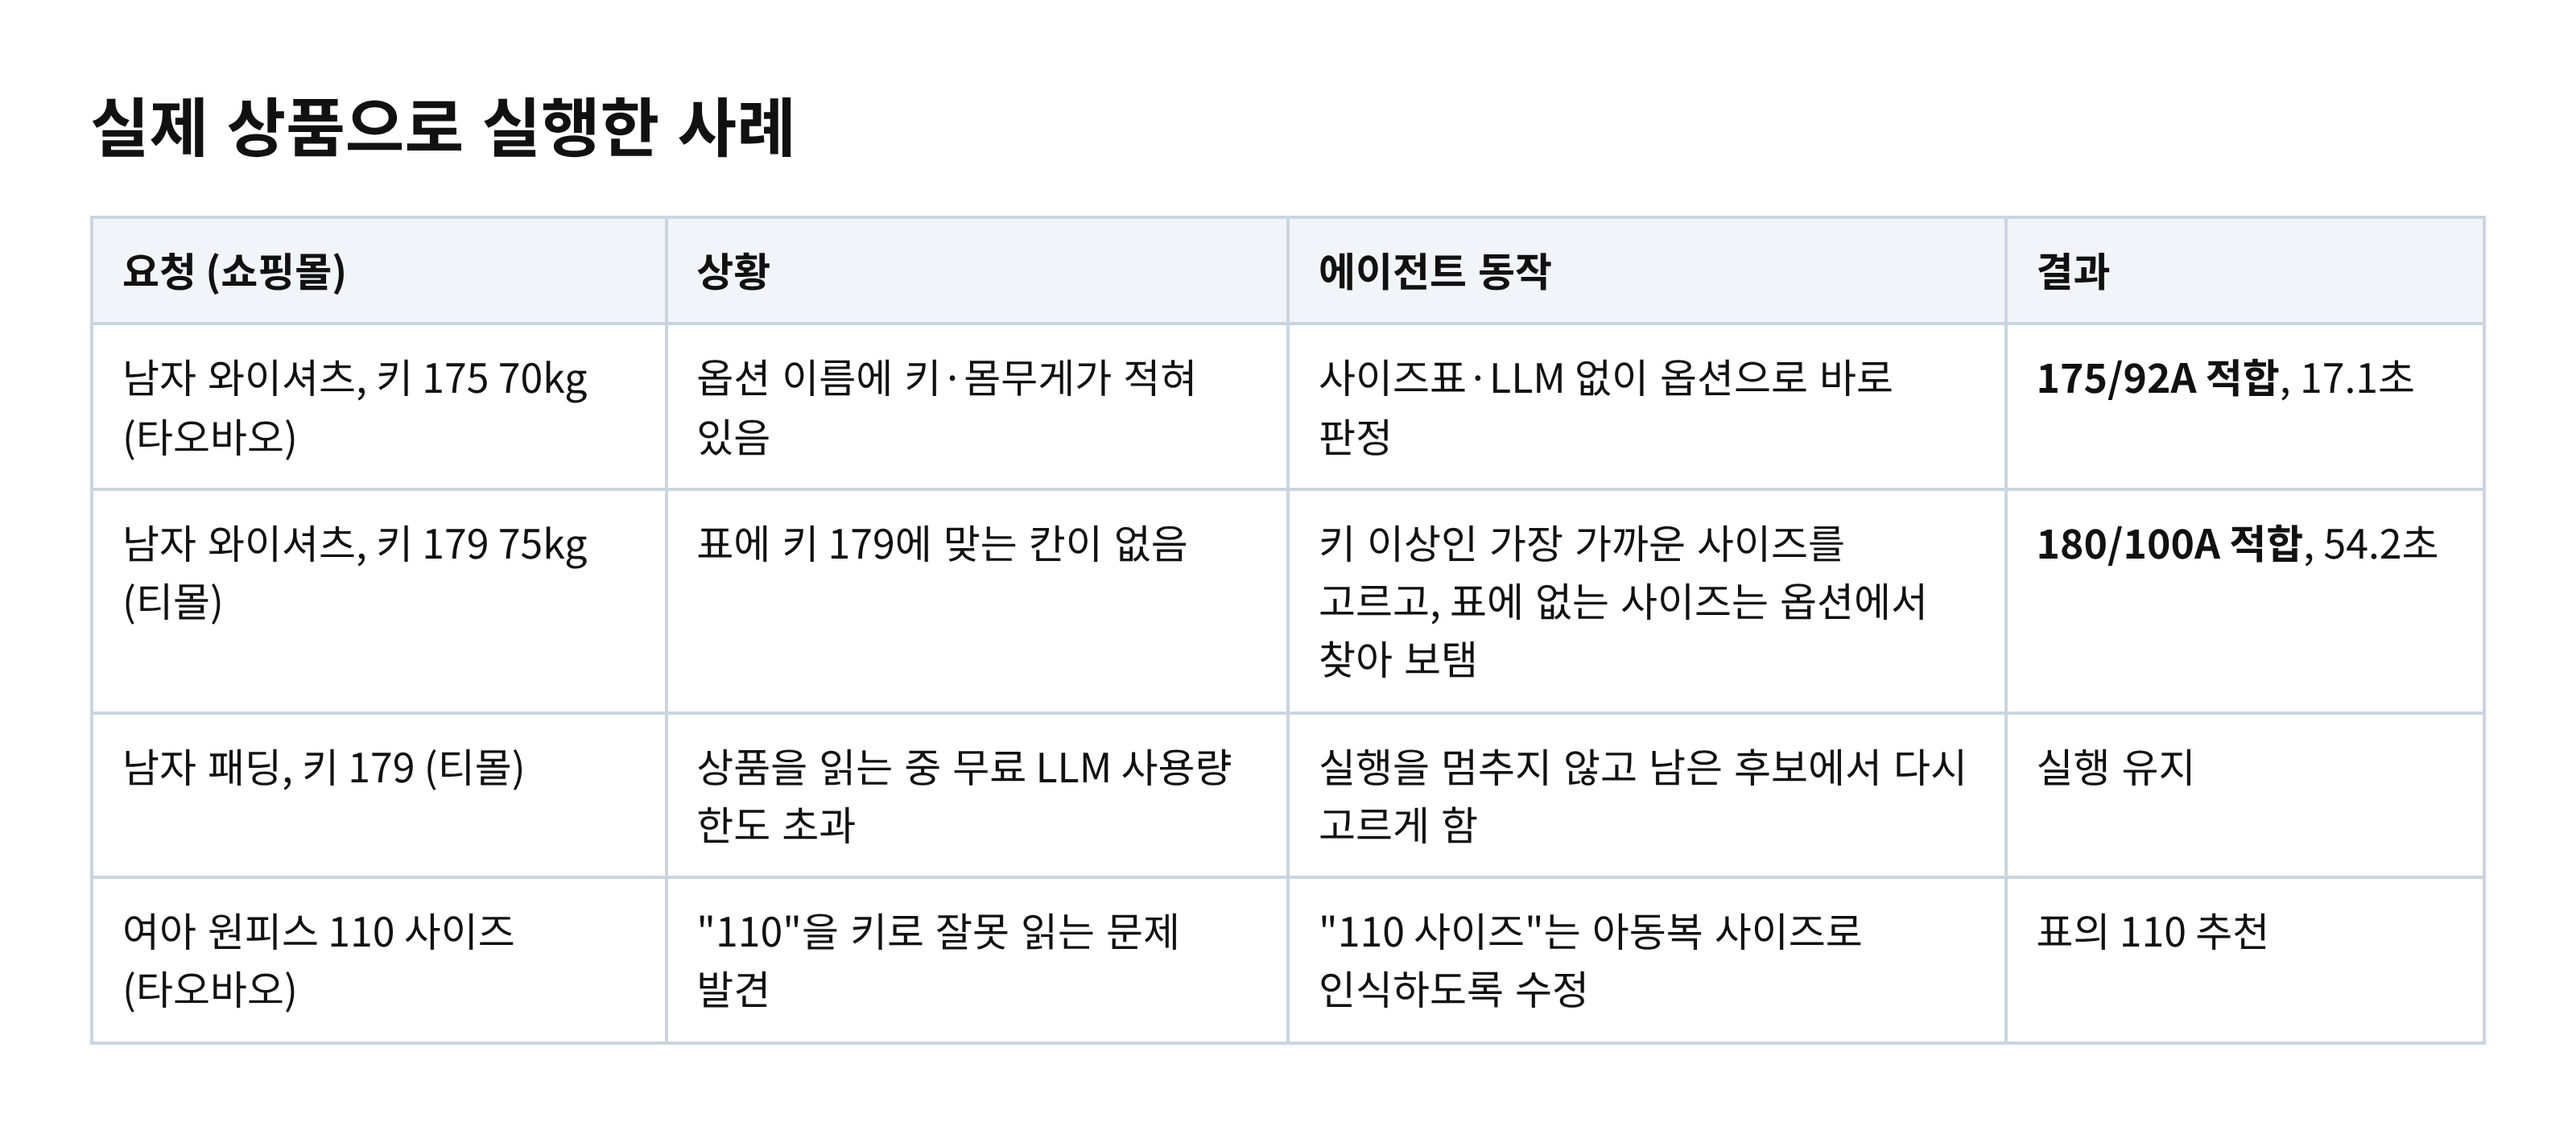
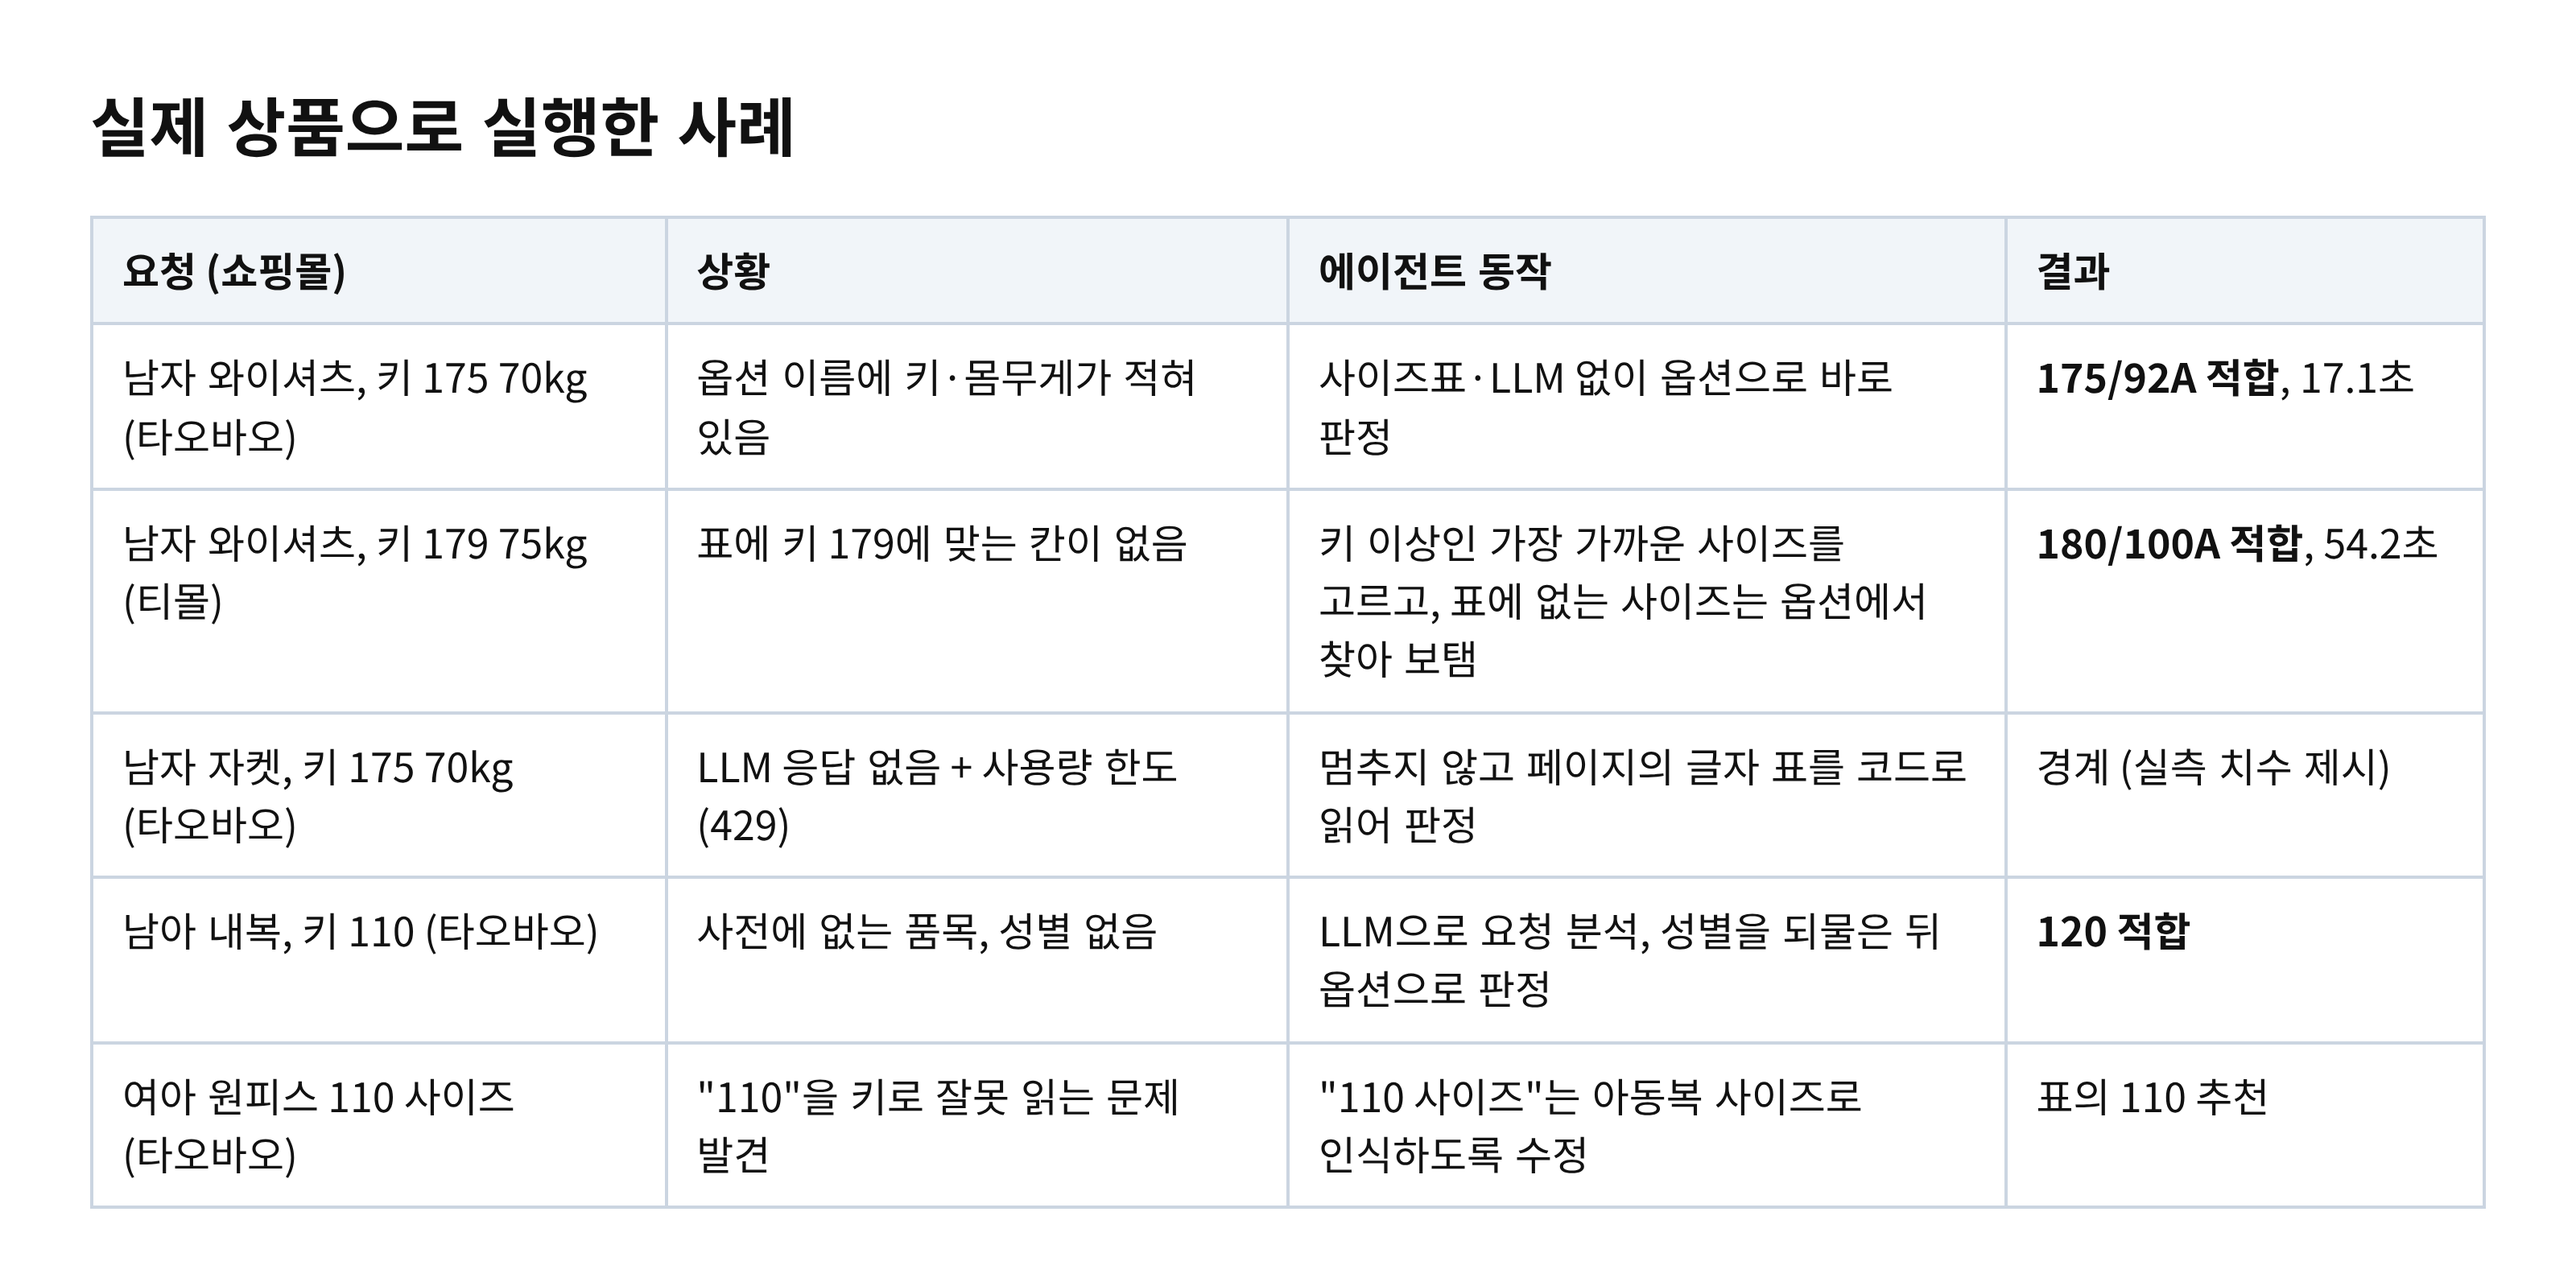
발표자료: 자켓 실행 캡처(LLM 한도 → 글자 표를 코드로 읽어 판정)로 슬라이드 11 그림 교체, 실행 사례 표에 자켓·내복 추가
- 결과 표 아래 '단면' 안내는 단면 값이 있을 때만 표시

Claude-Session: https://claude.ai/code/session_01F7aTUzDBQ7KDMN6q6UQMt1

diff --git a/app/src/ui/sidepanel.js b/app/src/ui/sidepanel.js
@@ -170,7 +170,7 @@ function showResult(v, run) {
       ['총장', (t) => t.length ?? '-', (t) => t.length], [chestH, (t) => girth(t.chest, chestH), (t) => t.chest], [waistH, (t) => girth(t.waist, waistH), (t) => t.waist],
       ['어깨너비', (t) => t.shoulder ?? '-', (t) => t.shoulder], ['소매길이', (t) => t.sleeve ?? '-', (t) => t.sleeve],
     ].filter(([, , has]) => r.table?.some((t) => has(t) != null));
-    const tbl = r.table?.length ? `<table class="spec"><tr><th>사이즈</th>${COLS.map(([h]) => `<th>${h}</th>`).join('')}</tr>${r.table.map((t) => `<tr${t.label === r.size ? ' class="hit"' : ''}><td>${esc(t.label)}${t.fromSku ? ' (옵션)' : ''}</td>${COLS.map(([, f]) => `<td>${esc(f(t))}</td>`).join('')}</tr>`).join('')}</table>${COLS.length > COLS.filter(([h]) => h.startsWith('권장')).length ? `<p class="sub">실측 단위 cm${[chestH, waistH].some((h) => !h.endsWith('둘레')) ? ' · 단면 = 옷을 펼쳐 잰 한쪽 폭 (둘레의 약 절반)' : ''}</p>` : ''}` : '';
+    const tbl = r.table?.length ? `<table class="spec"><tr><th>사이즈</th>${COLS.map(([h]) => `<th>${h}</th>`).join('')}</tr>${r.table.map((t) => `<tr${t.label === r.size ? ' class="hit"' : ''}><td>${esc(t.label)}${t.fromSku ? ' (옵션)' : ''}</td>${COLS.map(([, f]) => `<td>${esc(f(t))}</td>`).join('')}</tr>`).join('')}</table>${COLS.length > COLS.filter(([h]) => h.startsWith('권장')).length ? `<p class="sub">실측 단위 cm${(r.table ?? []).some((t) => t.chest?.basis === '단면' || t.waist?.basis === '단면') ? ' · 단면 = 옷을 펼쳐 잰 한쪽 폭 (둘레의 약 절반)' : ''}</p>` : ''}` : '';
     head = `<h3>추천: ${esc(title(r.productId))}</h3><p class="big">${r.size ? `${esc(r.size)} 사이즈 · ` : ''}${esc(r.verdict)}</p><p>${esc(r.rationale)}</p>${r.specStatus === 'from_sku' ? '<p class="warn">옵션의 사이즈 정보(키·몸무게)로 판정했어요. 총장·가슴 같은 실측 치수는 상품 페이지에서 확인해 주세요.</p>' : r.specStatus !== 'ok' ? '<p class="warn">사이즈표를 확실히 읽지 못했어요. 원문을 확인해 주세요.</p>' : ''}${tbl}${c?.url ? `<p><a href="${safeUrl(c.url)}" target="_blank" rel="noopener">상품 페이지 열기</a></p>` : ''}`;
   } else if (r?.type === 'fallback') head = '<h3>맞는 상품을 찾지 못했어요</h3><p>조건을 바꾸거나 다른 검색어로 시도해 보세요.</p>';
   else if (v.analyzed.length) head = '<h3>시간 초과</h3><p>에이전트 작업 시간이 90초를 넘었어요. 다시 시도해 주세요.</p>';

diff --git a/발표자료/그림/_만들기.py b/발표자료/그림/_만들기.py
@@ -87,7 +87,8 @@ FIGS['04_실행사례'] = """
 <tr><th style="width:24%">요청 (쇼핑몰)</th><th style="width:26%">상황</th><th style="width:30%">에이전트 동작</th><th>결과</th></tr>
 <tr><td>남자 와이셔츠, 키 175 70kg (타오바오)</td><td>옵션 이름에 키·몸무게가 적혀 있음</td><td>사이즈표·LLM 없이 옵션으로 바로 판정</td><td><b>175/92A 적합</b>, 17.1초</td></tr>
 <tr><td>남자 와이셔츠, 키 179 75kg (티몰)</td><td>표에 키 179에 맞는 칸이 없음</td><td>키 이상인 가장 가까운 사이즈를 고르고, 표에 없는 사이즈는 옵션에서 찾아 보탬</td><td><b>180/100A 적합</b>, 54.2초</td></tr>
-<tr><td>남자 패딩, 키 179 (티몰)</td><td>상품을 읽는 중 무료 LLM 사용량 한도 초과</td><td>실행을 멈추지 않고 남은 후보에서 다시 고르게 함</td><td>실행 유지</td></tr>
+<tr><td>남자 자켓, 키 175 70kg (타오바오)</td><td>LLM 응답 없음 + 사용량 한도(429)</td><td>멈추지 않고 페이지의 글자 표를 코드로 읽어 판정</td><td>경계 (실측 치수 제시)</td></tr>
+<tr><td>남아 내복, 키 110 (타오바오)</td><td>사전에 없는 품목, 성별 없음</td><td>LLM으로 요청 분석, 성별을 되물은 뒤 옵션으로 판정</td><td><b>120 적합</b></td></tr>
 <tr><td>여아 원피스 110 사이즈 (타오바오)</td><td>"110"을 키로 잘못 읽는 문제 발견</td><td>"110 사이즈"는 아동복 사이즈로 인식하도록 수정</td><td>표의 110 추천</td></tr>
 </table>
 """
@@ -194,6 +195,17 @@ FIGS['12_정확도와테스트'] = """
 <div class="note">틀린 18개는 모두 측정 기준(단면/둘레, 소매 시작점) 표시이고 숫자는 모두 맞음 · 사람이 고른 사이즈표 이미지 기준</div>
 """
 
+# 슬라이드 11 오른쪽에 작게 넣는 실제 실행 장면 (세로로 긴 그림)
+FIGS['11_실패처리캡처'] = f"""
+<div id="g" style="width:880px;padding:30px;background:#fff">
+<h1 style="font-size:34px;margin-bottom:12px">실제 장면: LLM이 응답하지 않아도 결과를 냄</h1>
+<div class="sub" style="margin:0 0 16px;font-size:22px">남자 자켓 · 키 175 70kg (타오바오)</div>
+<img src="{img64('발표자료/캡처/20261118_자켓_LLM한도_로그.png', (592, None))}" style="width:100%;border:2px solid #CBD5E1;border-radius:12px">
+<div class="box b-gray" style="margin:16px 0;font-size:23px;padding:16px 20px">LLM 응답 없음 → 다시 시도 → 사용량 한도(429)<br>→ 멈추지 않고 <b>페이지의 글자 표를 코드로 읽어</b> 판정</div>
+<img src="{img64('발표자료/캡처/20261118_자켓_LLM한도_결과.png', (0, 350))}" style="width:100%;border:2px solid #CBD5E1;border-radius:12px">
+</div>
+"""
+
 async def main():
     async with async_playwright() as p:
         b = await p.chromium.launch()
@@ -201,10 +213,9 @@ async def main():
         for name, body in FIGS.items():
             await pg.set_content(f"<html><head><meta charset='utf-8'><style>{CSS}</style></head><body><div class='fig' id='f'>{body}</div></body></html>")
             await pg.wait_for_timeout(150)
-            await (await pg.query_selector('#f')).screenshot(path=str(OUT / f'{name}.png'))
+            await (await pg.query_selector('#g') or await pg.query_selector('#f')).screenshot(path=str(OUT / f'{name}.png'))
             print('저장', name)
         await b.close()
     shutil.copy(ROOT / '에이전트/에이전트_그래프.png', OUT / '06_에이전트그래프.png')
-    shutil.copy(ROOT / '발표자료/캡처/20261116_패딩_LLM실패처리.png', OUT / '11_실패처리캡처.png')
 
 asyncio.run(main())
